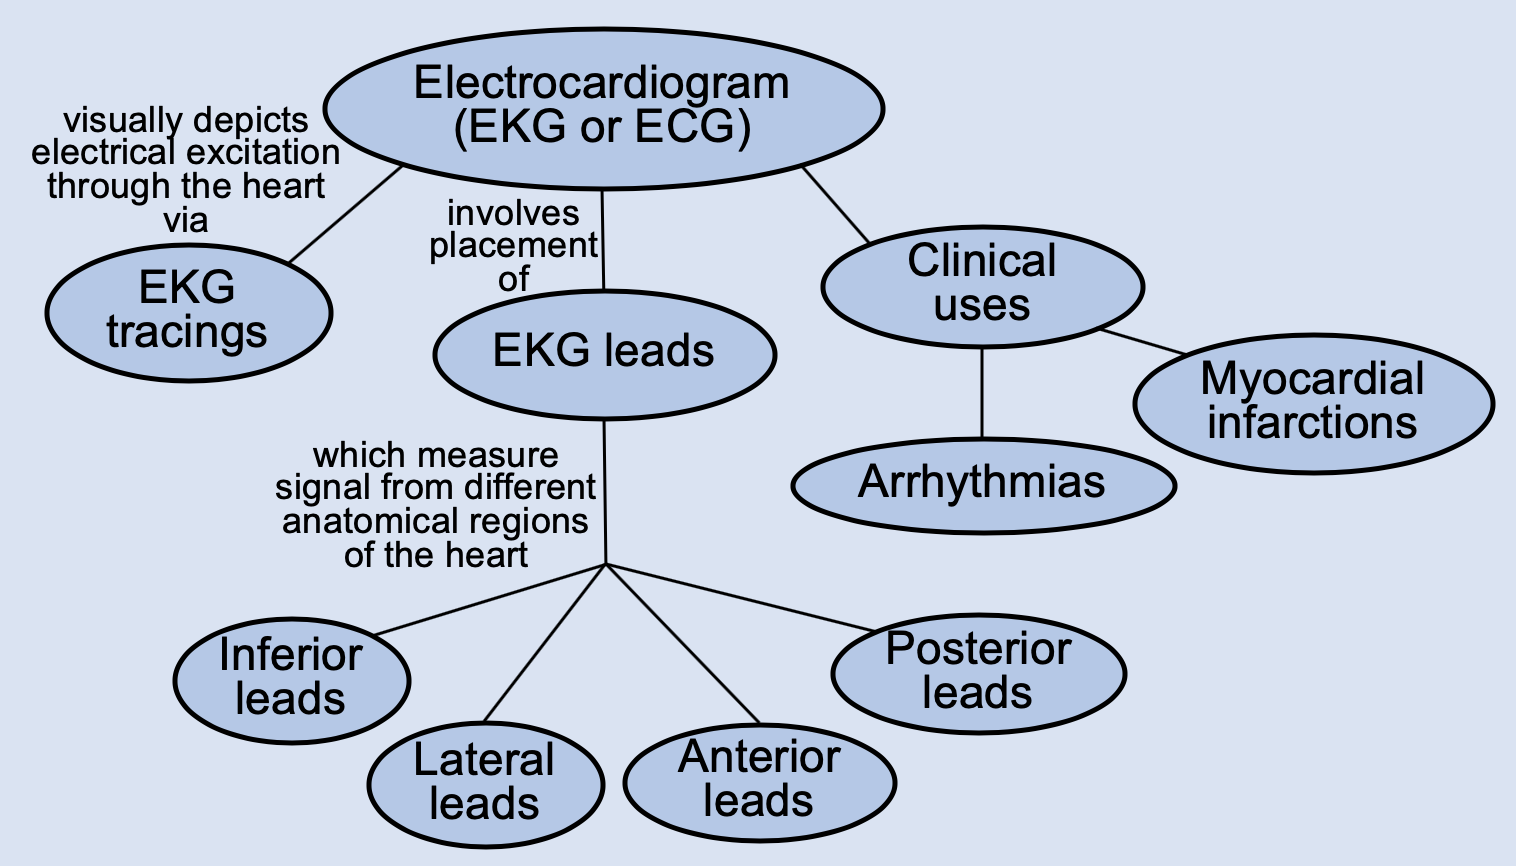
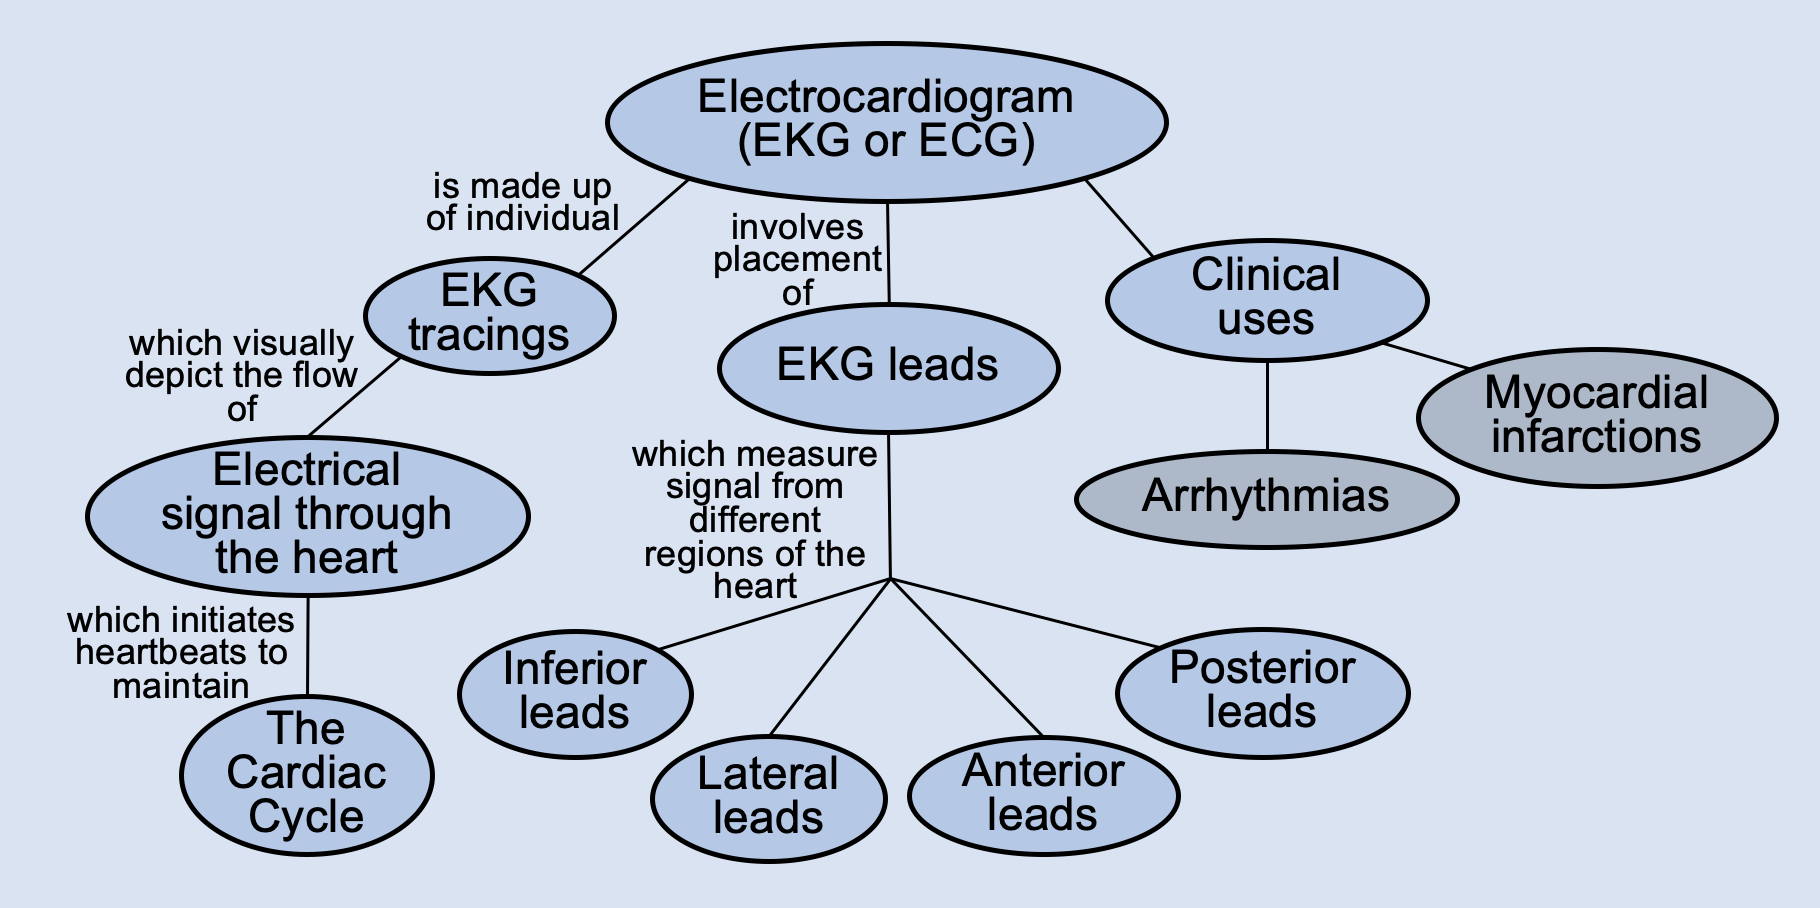
Update EKG

diff --git a/ekg.html b/ekg.html
@@ -9,22 +9,31 @@
                 <TD WIDTH="800" HEIGHT="300">
                 <h2 align=center>Electrocardiogram (EKG or ECG)</h2>
                 <p>The <b>electrocardiogram (EKG or ECG)</b> is a visual depiction of the wave of electrical signal through the myocardium. Its main purpose is as a clinical tool in the work-up of chest pain.</p>
-                <center><img src = "images/cardio/ekg.png" usemap="#ekg" width="480" height="280">
+                <center><img src = "images/cardio/ekg.png" usemap="#ekg" width="575" height="300">
                 <map name="ekg">
-                    <area shape=rect coords="20,80,100,125" href="#ekgtracing">
-                    <area shape=rect coords="145,95,240,135" href="#ekgleads">
-                    <area shape=rect coords="60,200,125,238" href="#ekginfleads">
-                    <area shape=rect coords="120,235,185,275" href="#ekglatleads">
-                    <area shape=rect coords="200,235,285,270" href="#ekgantleads">
-                    <area shape=rect coords="265,200,355,235" href="#ekgpostleads">
-                    <area shape=rect coords="270,75,355,110" href="#ekgclinuse">
+                    <area shape=rect coords="115,85,195,125" href="#ekgtracing">
+                    <area shape=rect coords="235,105,330,140" href="#ekgleads">
+                    <area shape=rect coords="150,210,215,248" href="#ekginfleads">
+                    <area shape=rect coords="210,245,275,285" href="#ekglatleads">
+                    <area shape=rect coords="290,245,370,280" href="#ekgantleads">
+                    <area shape=rect coords="355,210,445,250" href="#ekgpostleads">
+                    <area shape=rect coords="355,80,445,120" href="#ekgclinuse">
+                    <area shape=rect coords="30,145,165,195" href="cardiac_myocytes.html#electrical_signal">
+                    <area shape=rect coords="60,230,135,280" href="cardiac_cycle.html">
                 </map></center></TD></TR></TABLE>
 <BR>
         <TABLE WIDTH="800" HEIGHT="370" BORDER="1" CELLSPACING="2" CELLPADDING="2">
                 <TR>
                 <TD WIDTH="800" HEIGHT="309">
                 <a name="ekgtracing"><h2 align=center>EKG Tracings</h2></a>
-                <p>The typical flow of electrical signal (“wave of depolarization”) through the heart creates the characteristic shape of the EKG tracing. The typical EKG tracing includes the following parts: 1.) <b>P wave</b>, 2.) <b>PR interval</b>, 3.) <b>QRS complex</b>, 4.) <b>ST interval</b>, and 5.) <b>T wave</b>. Each of these segments directly corresponds to some <a href=cardiac_myocytes.html#electrical_signal>electrical excitation</a> event in the heart.</p>
+                <p>The typical <a href=cardiac_myocytes.html#electrical_signal>flow of electrical signal</a> (“wave of depolarization”) through the heart creates the characteristic shape of the EKG tracing. The typical EKG tracing includes the following parts: 1.) <b>P wave</b>, 2.) <b>PR interval</b>, 3.) <b>QRS complex</b>, 4.) <b>ST interval</b>, and 5.) <b>T wave</b>. Each of these segments directly corresponds to some electrical excitation event in the heart. Each wave of depolarization starts with the automatic firing of the <a href=cardiac_myocytes.html#sa_node>SA node</a>, causes <a href=cardiac_myocytes.html#av_myocytes>atrial and ventricular myocyte depolarization</a> and <a href=cardiac_myocytes.html#myocytes_contract>myocyte contraction</a>, and repeats with every heartbeat. The ultimate result is that these electrical events cause the cyclic contraction and relaxation of the heart, which allows it to pump blood and keep <a href=cardiac_cycle.html>the cardiac cycle</a> going. </p> 
+                <p>EKG tracings typically include the following segments:</p>
+                <ol><li><b>P wave</b> (orange): Represents the wave of depolarization through the atria ("atrial depolarization"). Since atrial depolarization is initiated by the SA node, if the P wave is absent, it means there is something wrong with the SA node.</li>
+                    <li><b>PR interval</b> (pink): Represents the time the electrical signal is delayed at the AV node. After atrial myocytes depolarize, the electrical signal reaches the AV node, where there is a slight delay before the signal is passed through to the ventricles. This allows time for the atria to contract and empty blood into the ventricles, before the ventricles depolarize and contract. This allows for proper filling of the ventricles. The PR interval therefore represents <i>diastole</i>. </li>
+                    <li><b>QRS complex</b> (blue): Represents the wave of depolarization through the ventricular myocytes ("ventricular depolarization"). Since the ventricles are much larger than the atria, this wave, or spike in the EKG, is usually larger than the P wave. The QRS complex technically also encompasses the depolarization of the His-Purkinje system; however, the His-Purkinje system covers a pretty small area and this depolarization happens really quickly, so it usually doesn't register strongly on the EKG tracing. </li>
+                    <li><b>ST interval</b> (lighter blue/green): Represents the time between ventricular myocyte depolarization and repolarization. This corresponds roughly to the time where the ventricular myocytes are undergoing muscle contraction. The ST interval therefore represents <i>systole</i>.  </li>
+                    <li><b>T wave</b> (green): Rpresents repolarization of ventricular myocytes, where they reset and prepare for the next wave of depolarization. </li></ol>
+                <p> Here is  a summary of EKG tracings and the corresponds electrical events in the heart:</p>
                 <center><img src="images/cardio/ekg_tracing.png" width="800" height="470"> </center></BR></BR></TD></TR></TABLE></body></html>
                 <BR>
         <TABLE WIDTH="800" HEIGHT="370" BORDER="1" CELLSPACING="2" CELLPADDING="2">

diff --git a/cardiac_myocytes.html b/cardiac_myocytes.html
@@ -17,6 +17,7 @@
                     <area shape=rect coords="245,105,315,150" href="#his_purkinje">
                     <area shape=rect coords="460,15,565,60" href="ans_reg_heart.html">
                     <area shape=rect coords="100,205,210,250" href="#electrical_signal">
+                    <area shape=rect coords="20,248,70,278" href="ekg.html">
                     <area shape=rect coords="230,250,325,305" href="#myocytes_contract">
                     <area shape=rect coords="345,205,435,250" href="#myocytes_contract">
                     <area shape=rect coords="100,300,210,325" href="#automaticity">
